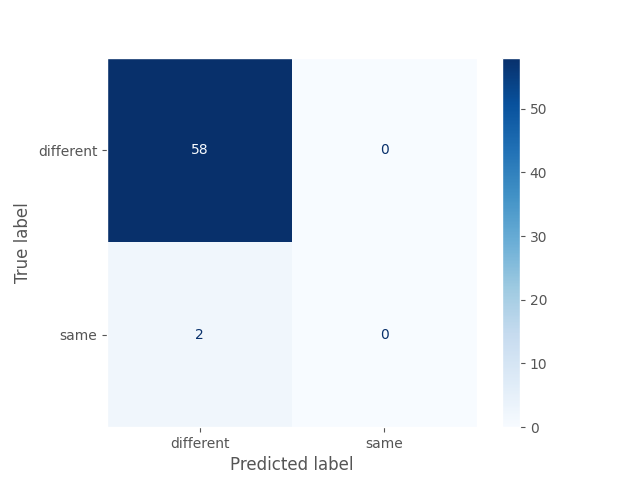
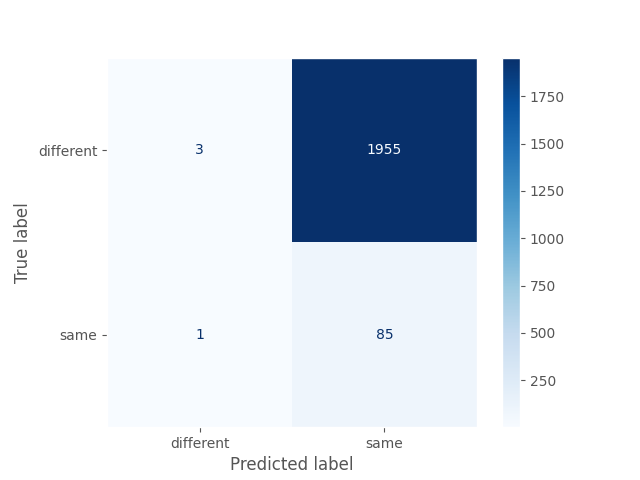
VAE weighted cross entropy

diff --git a/code/vae/main.py b/code/vae/main.py
@@ -3,6 +3,7 @@ import logging
 import torch
 import torch.nn as nn
 import torch.optim as optim
+from torch.utils.data import DataLoader
 from util import preprocess_dataset
 from train import train_model, evaluate_model
 from vae import VAE
@@ -66,6 +67,35 @@ def setup_logging(args):    # Logging output to a file.
     logging.basicConfig(filename=output, level=logging.INFO, filemode='w')
     return logger
 
+
+def calculate_class_weights(train_loader: DataLoader) -> torch.Tensor:
+    """
+    Calculate the weights for each class based on their frequency in the dataset.
+    
+    Args:
+        train_loader (DataLoader): The training data loader.
+    
+    Returns:
+        torch.Tensor: A tensor of weights for each class.
+    """
+    class_counts = {}
+    total_samples = 0
+    
+    for _, labels in train_loader:
+        for label in labels:
+            class_label = label.argmax().item()
+            class_counts[class_label] = class_counts.get(class_label, 0) + 1
+            total_samples += 1
+    
+    class_weights = []
+    for i in range(len(class_counts)):
+        class_weights.append(1.0 / class_counts[i])
+    
+    class_weights = torch.FloatTensor(class_weights)
+    class_weights = class_weights / class_weights.sum() * len(class_counts)
+    
+    return class_weights
+
 def main():
     args = parse_arguments()
     logger = setup_logging(args)
@@ -87,6 +117,9 @@ def main():
         is_pre_train=False
     )
 
+    # Calculate class weights
+    class_weights = calculate_class_weights(train_loader)
+
     device = torch.device('cuda' if torch.cuda.is_available() else 'cpu')
     print(f"Using device: {device}")
 
@@ -98,8 +131,10 @@ def main():
         dropout=args.dropout
     )
     model = model.to(device)
+    class_weights = class_weights.to(device)
 
-    criterion = nn.CrossEntropyLoss(label_smoothing=args.label_smoothing)
+    # Initialize the weighted loss function
+    criterion = nn.CrossEntropyLoss(weight=class_weights, label_smoothing=args.label_smoothing)
     optimizer = optim.AdamW(model.parameters(), lr=args.learning_rate)
 
     model = train_model(
